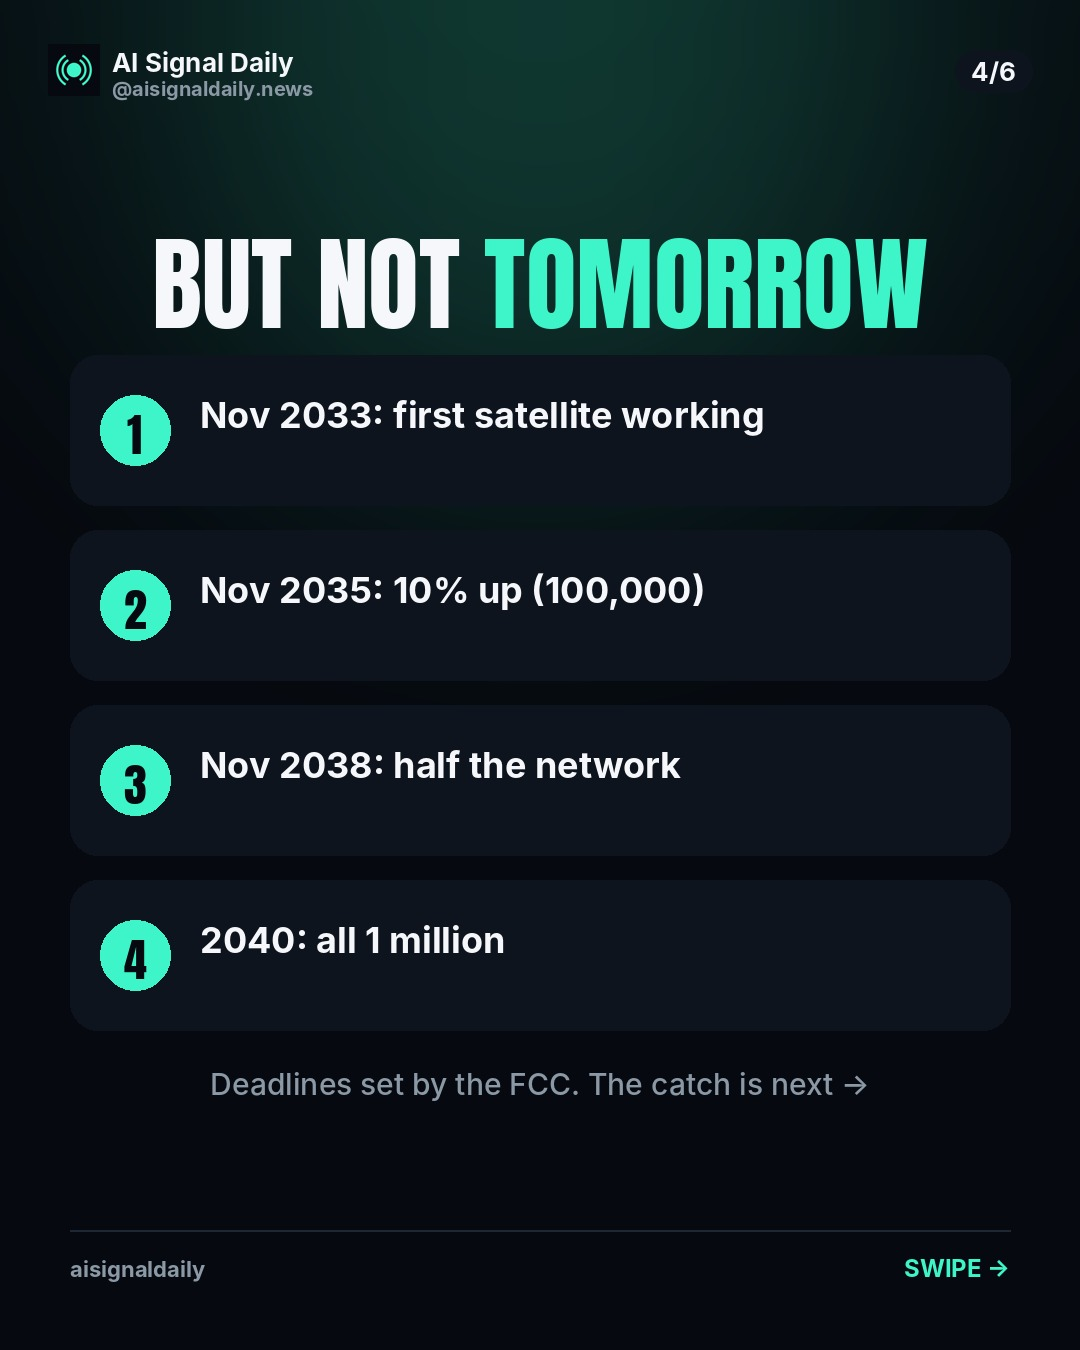
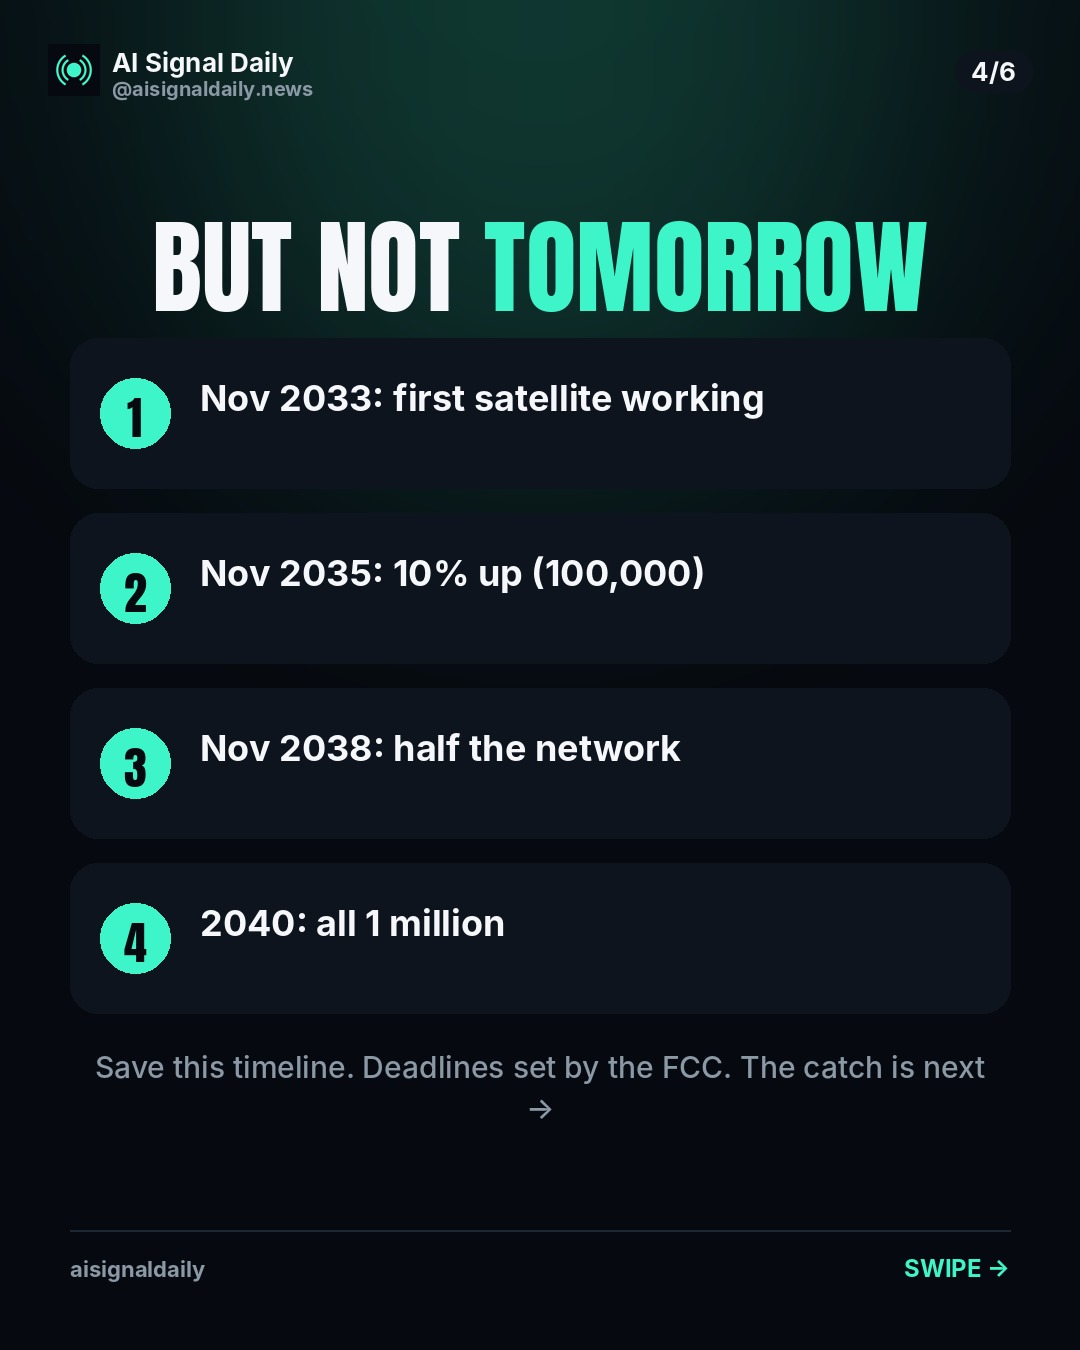
Afternoon: round-2 review fixes

diff --git a/tools/REVIEW_LOG.md b/tools/REVIEW_LOG.md
@@ -7,4 +7,5 @@ One line per post: date | slot | title | hook/send/save/follow/clarity/readabili
 2026-11-26 08:18 | Explainer Reel (sales & marketing blueprint, 67 s) | approved by Raheel directly in chat, posted early (was planned Fri 12:30) | voice: yes | keyword: BLUEPRINT
 2026-11-26 09:15 | morning carousel | Black Friday tip: ask Instagram's AI (Meta Muse in DMs + Walmart) | r1 5/6/5/4/8/8/7 medium -> r2 7/7/6/5/8/9/7 medium-high | hook: 'Black Friday tip: ask Instagram's AI for the deal' (reviewer alt A) | fixed: hook, Walmart wording (approve purchases, broader history), US/Canada scope, send line, follow line | voice: n/a | hashtags: 0
 - 2026-11-26 | midday (WATCHDOG RESCUE, carousel 6 slides) | New York just banned AI chatbot toys for 5 years | self-review only (rescue, no independent reviewer) | hook: NY ban + Black Friday | hashtags: 0 | voice: no | clip: no | cause: midday run never ran (no claim, no preview, nothing in Buffer)
-2026-11-26 | afternoon | Starmind: US approved up to 1M AI satellites | hook 7, send 4, save 2, follow 4, clarity 6, credibility 8, craft 7 | overall low-medium (no personal stake, space trivia) | hook chosen: 'UP TO 1 MILLION AI SATELLITES' + sub 'AI is running out of power on Earth. So it's moving to space.' | fixes: 'up to' on cover, plain-words sub, send line -> friend who says AI is a fad, follow line names Free swaps; facts all confirmed | hashtags: 3 | clip: n/a | voice: no. Maker note: weak save/follow scores are structural for a news post; no series number added (not a numbered series).
+2026-11-26 | afternoon | Starmind: US approved up to 1M AI satellites | hook 7, send 4, save 2, follow 4, clarity 6, credibility 8, craft 7 | overall low-medium (no personal stake, space trivia) | hook chosen: 'UP TO 1 MILLION AI SATELLITES' + sub 'AI is running out of power on Earth. So it's moving to space.' | fixes: 'up to' on cover, plain-words sub, send line -> friend who says AI is a fad, follow line names Free swaps; facts all confirmed | hashtags: 0 (round 1 draft had 3, removed: Thu = zero-hashtag day) | clip: n/a | voice: no. Maker note: weak save/follow scores are structural for a news post; no series number added (not a numbered series).
+2026-11-26 | afternoon | Starmind ROUND 2 | hook 7, send 5, save 3, follow 6, clarity 7, credibility 8, craft 7 | medium | fixes: removed hashtags (Thu rule, missed by maker), send line -> 'AI is just hype', 'Save this timeline' footer on slide 4. Round 1 had been done without the required round 2 until the user asked; no round 3.
